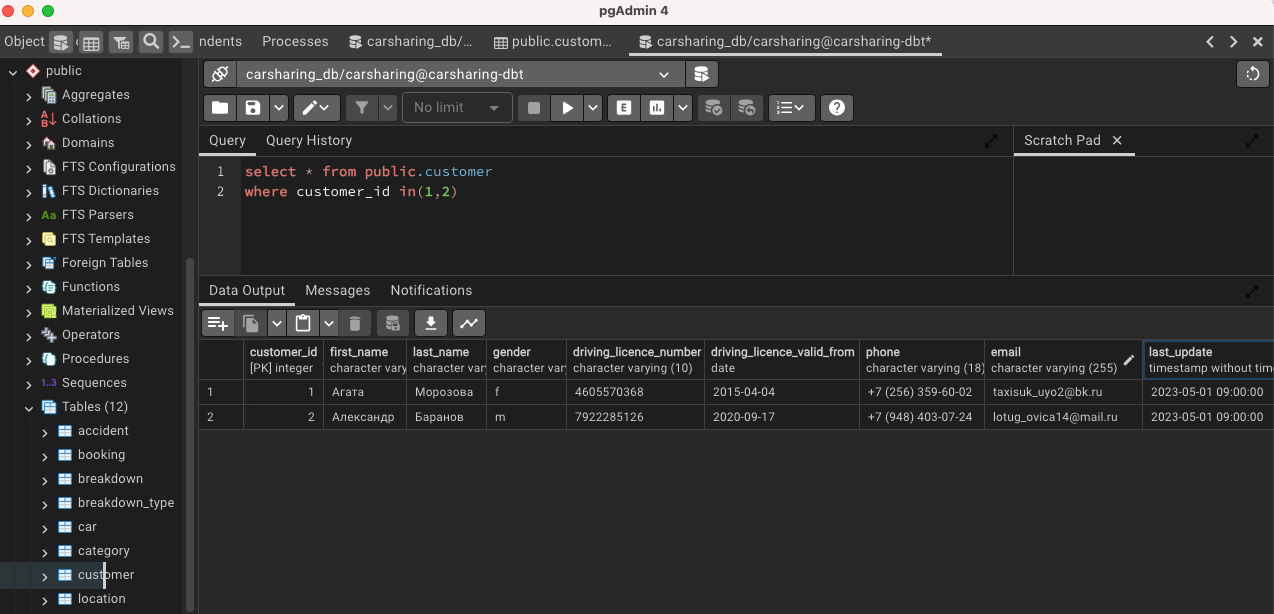
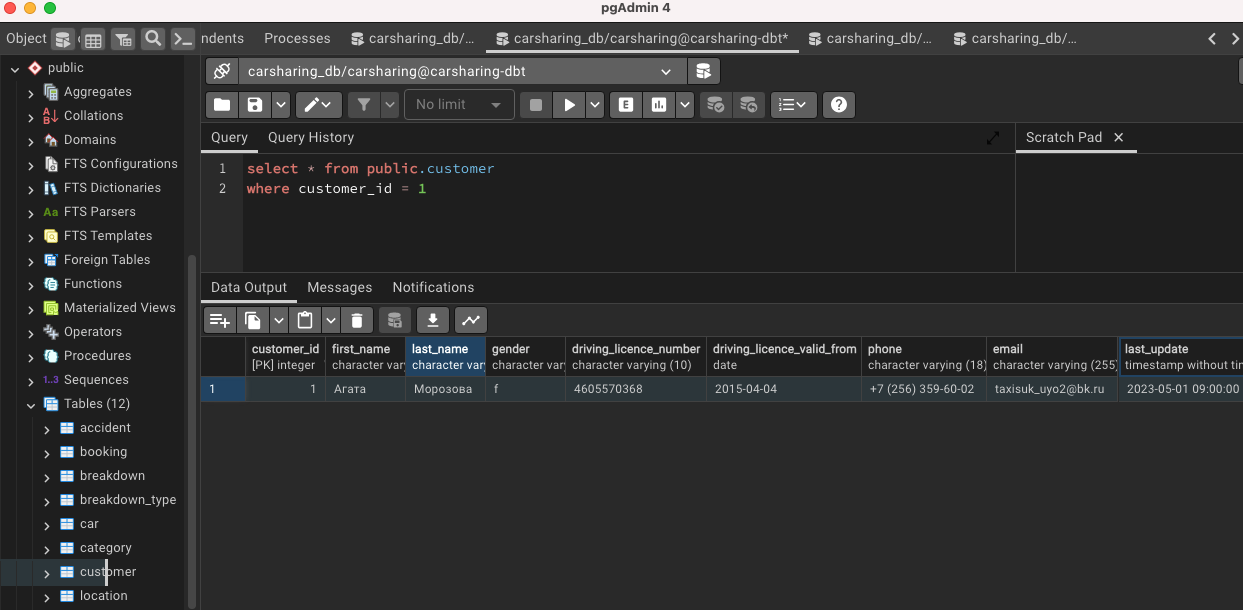
Update 5 files
- istoricheskie-dannye.md
   - istoricheskie-dannye-4.png
   - istoricheskie-dannye-5.png
   - istoricheskie-dannye-6.png
   - istoricheskie-dannye-7.png

Changed region(s): [[0.0, 0.0, 1.0, 0.9967]]

diff --git a/istoricheskie-dannye.md b/istoricheskie-dannye.md
@@ -122,15 +122,59 @@ dbt snapshot
 
 ## Пример отслеживания изменений
 
-Для примера возьмите несколько произвольных записей  и сымитируйте их изменение в системе-источнике (таблица `public.customer`).
+Для примера возьмите произвольную запись  и сымитируйте изменение в системе-источнике (таблица `public.customer`).
 
 ```postgresql
 select * from public.customer
-where customer_id in (1,2)
+where customer_id = 1;
 ```
 
-<image src="./istoricheskie-dannye-4.png" title="Рисунок 71" crop="0,0,100,100" objects="square,0.8634,9.4463,13.5793,4.5603,,top-left&square,1.0989,90.8795,13.1083,5.5375,,top-left&square,15.5416,25.2443,25.1962,12.3779,,top-left" width="1274px" height="614px" float="center"/>
+<image src="./istoricheskie-dannye-4.png" title="Рисунок 71" crop="0,0,100,100" objects="square,0.7241,9.1803,13.9984,5.2459,,top-left&square,0.9654,90.4918,13.757,5.5738,,top-left&square,16.0097,24.5902,25.3419,10.4918,,top-left" width="1243px" height="610px" float="center"/>
 
-Предположим, что первый пользователь (Агата Морозова) сменил фамилию и, соответственно, водительское удостоверение, а второй (Александр Баранов) -- номер телефона и адрес электронной почты. При внесении изменений в исходной системе также обновится значение временной метки.
+Предположим, что данный пользователь (Агата Морозова) сменил фамилию и, соответственно, водительское удостоверение. При внесении изменений в исходной системе также обновится значение временной метки.
 
-Выполните следующий запрос для обновления данных в исходной таблице:
+Выполните следующий запрос для имитации обновления данных в исходной таблице:
+
+```postgresql
+update public.customer
+	set 
+		last_name='Кристи', 
+		driving_licence_number='5716681479', 
+		driving_licence_valid_from='2026-01-01', 
+		last_update='2026-01-30 09:00:00'
+	where customer_id = 1;
+```
+
+Проверьте еще раз данные выбранного заказчика, выполните запрос:
+
+```postgresql
+select * from public.customer
+where customer_id = 1;
+```
+
+<image src="./istoricheskie-dannye-5.png" title="Рисунок 72" crop="0,0,100,100" objects="square,32.5806,54.4118,6.8548,12.4183,,top-left&square,45.4032,54.5752,24.1129,12.2549,,top-left&square,89.9194,54.902,10.0806,11.7647,,top-left" width="1240px" height="612px" float="center"/>
+
+Так как снэпшот `customers_snapshot` построен на staging-модели `stg_pg__customers` сначала потребуется обновить данную модель с учетом изменений в исходной таблице `customer`.
+
+Запустите построение модели `stg_pg__customers`:
+
+```bash
+dbt run --select stg_pg__customers
+```
+
+![](./istoricheskie-dannye-6.png "Рисунок 73"){width=1051px height=413px}
+
+Посмотрите изменения в базе. Выполните запрос:
+
+```postgresql
+select * from staging.stg_pg__customers
+where customer_id = 1
+```
+
+![](./istoricheskie-dannye-7.png "Рисунок 73"){width=1269px height=683px}
+
+Теперь выполните команду создания снэпшотов:
+
+```bash
+dbt snapshot
+```
